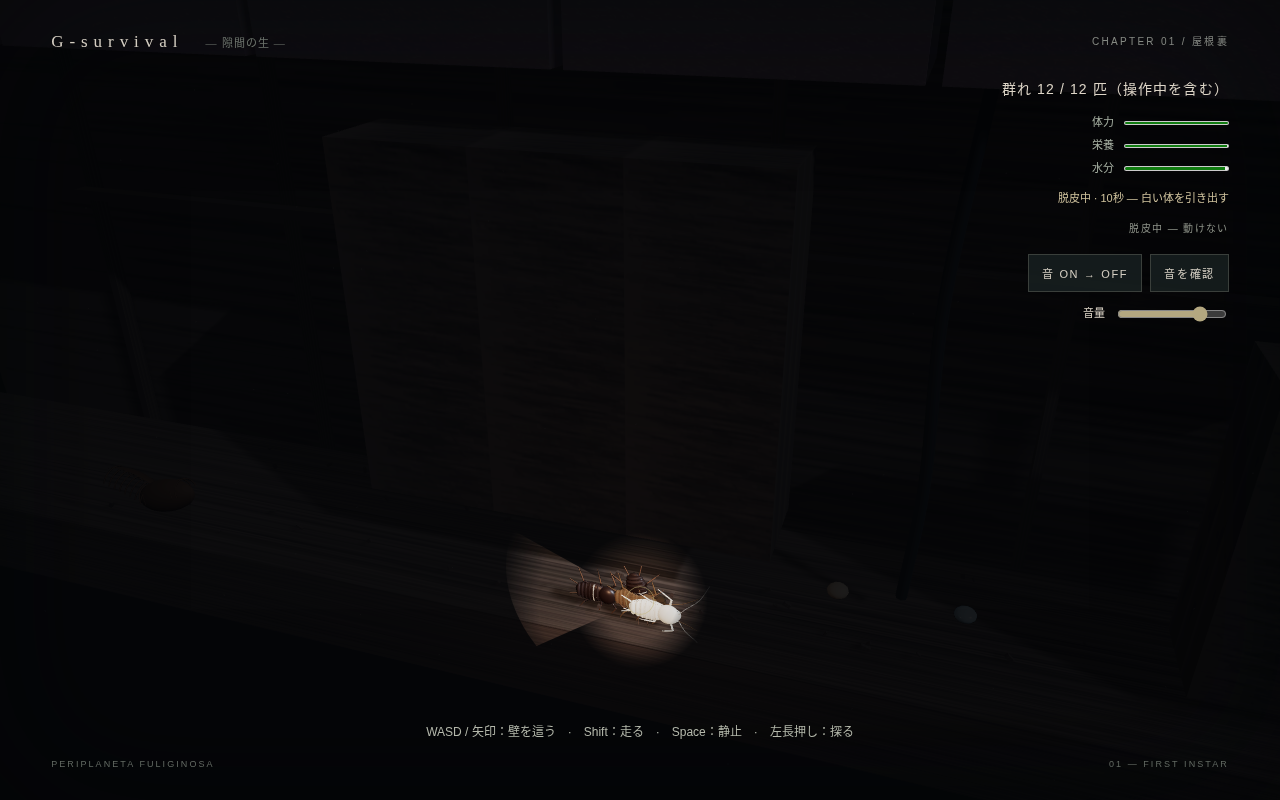
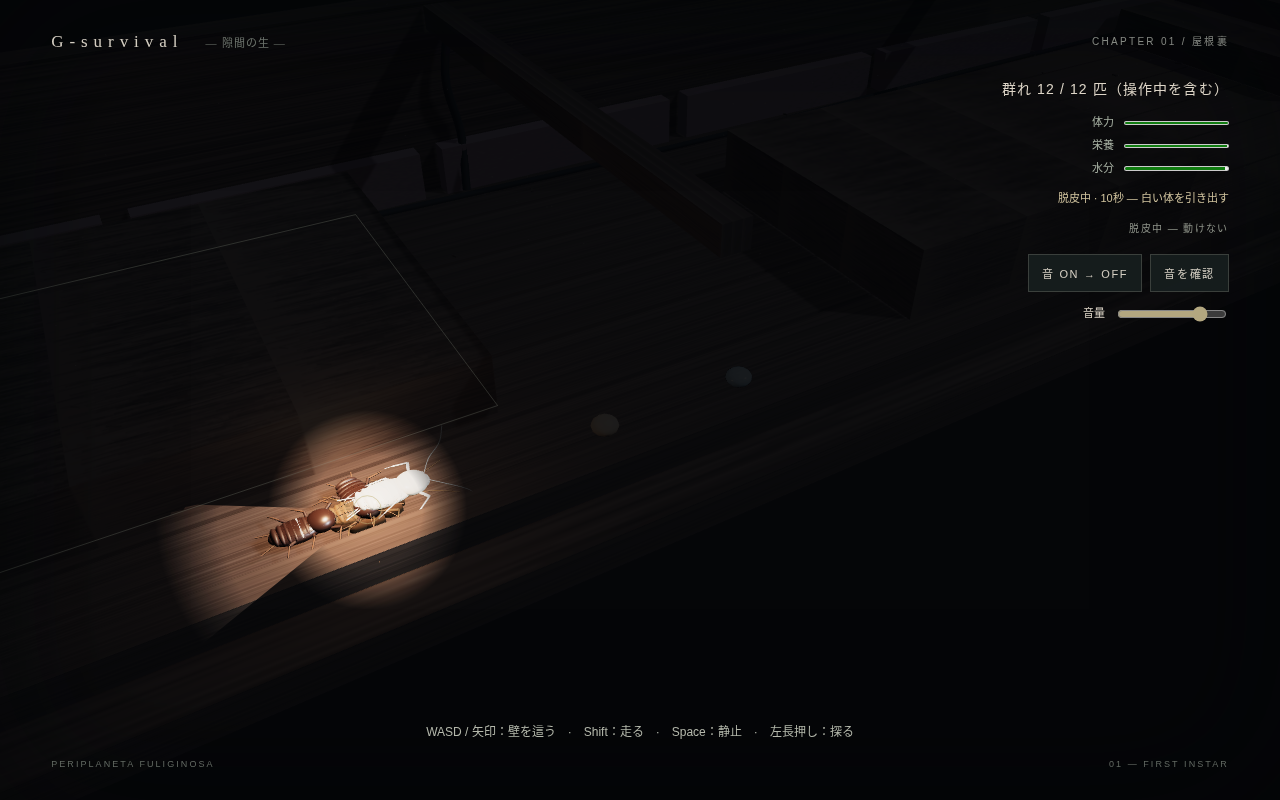
[claude] Rebuild the world on the X-Z floor plane (isometric refactor phase 2)
docs/isometric-refactor-brief.md のフェーズ2。遊技面を「X-Y に建てた壁の断面」から
「X-Z の床面」に組み直した。

- src/space.ts を新設し、sim(x,y) → world(x, 高さ, -y) の対応と、生物を床に
  寝かせる台座 grounded() を集約。
- 屋根裏の床・奥の壁(フェーズ3で登る面)・梁・断熱材・配線を床基準で建て直し、
  OBSTACLES の矩形を footprint として立体の塊にした。
- 生物は台座で包んだだけなので src/animals.ts は未編集。
- 暗闇はスクリーン空間のまま、障害物の輪郭を多角形に、危険方向を画面上の方向に。
- カメラは床を見下ろす既定値に入れ直し、進行方向の後ろへ移した。

src/simulation.ts は変更なし。playthrough.mjs が変更前と同一の
218.1秒 / state=won を出すことで難易度の不変を確認した。

Changed region(s): [[0.125, 0.5, 0.375, 0.7812], [0.4062, 0.6875, 0.5625, 0.8438]]

diff --git a/src/main.ts b/src/main.ts
@@ -5,6 +5,7 @@ import { AudioEngine } from './audio';
 import './style.css';
 import { MoltVisual } from './molt';
 import { createAnimal, animateAnimal } from './animals';
+import { PLANE_H, toWorld, place, grounded } from './space';
 
 const app = document.querySelector<HTMLDivElement>('#app')!;
 app.innerHTML = `<canvas id="world"></canvas><canvas id="veil"></canvas><div class="vignette"></div><header><span class="mark">G-survival <small>— 隙間の生 —</small></span><span class="chapter">CHAPTER 01 / 屋根裏</span></header><div id="entry"><div class="eyebrow">A LIFE BENEATH OUR FEET</div><h1>G-survival</h1><h2>— 隙間の生 —</h2><p class="story">あなたは、孵化したばかりのクロゴキブリの幼虫。<br>まだ飛べない。闇の中を、触角と気流を頼りに生きる。</p><p class="goal"><b>第1章：最初の脱皮</b><br>餌と水を探し、安全な隙間へ。<br>満たされた体で Space を3秒押し、20秒間の脱皮を生き延びる。<br>死ねば、どこかで生きている仲間へ。群れの命も、残りわずか。</p><button id="begin">卵から孵る <span>↗</span></button><small>音のある環境で体験してください</small></div><div id="ending" hidden><div class="eyebrow">CHAPTER 01</div><h2></h2><p></p><button id="again">もう一度、孵る ↗</button></div><aside id="hud"><div id="population" aria-live="polite"></div><div id="survival"><label>体力 <meter id="health" min="0" max="1"></meter></label><label>栄養 <meter id="hunger" min="0" max="1"></meter></label><label>水分 <meter id="water" min="0" max="1"></meter></label></div><div id="objective"></div><div id="molt-req"></div><div class="sound-controls"><button id="sound">音を有効にする</button><button id="test-sound">音を確認</button></div><label class="volume">音量 <input id="volume" aria-label="音量" type="range" min="0" max="1" step="0.05" value="0.8"></label><div id="sound-status" role="status"></div></aside><div id="controls">WASD / 矢印：壁を這う　·　Shift：走る　·　Space：静止　·　左長押し：探る</div><div id="warning" role="status"></div><footer><span>PERIPLANETA FULIGINOSA</span><span>01 — FIRST INSTAR</span></footer>`;
@@ -14,14 +15,15 @@ renderer.toneMapping=THREE.ACESFilmicToneMapping; renderer.toneMappingExposure=1
 const scene=new THREE.Scene(); scene.background=new THREE.Color('#111317'); scene.fog=new THREE.FogExp2('#111317',.018);
 // 斜俯瞰カメラ。docs/isometric-refactor-brief.md フェーズ1(カメラのみ変更)。数値はすべて **AI暫定値** — ガクチョ未指定。`?cam=fov,yaw,pitch,dist` で一時的に上書きして比較できる。
 const camQ=(new URLSearchParams(location.search).get('cam')||'').split(',').map(Number),camN=(i:number,d:number)=>Number.isFinite(camQ[i])&&camQ[i]!==0?camQ[i]:d;
-const CAM_FOV=camN(0,45),CAM_YAW=THREE.MathUtils.degToRad(camN(1,18)),CAM_PITCH=THREE.MathUtils.degToRad(camN(2,26)),CAM_DIST=camN(3,14),CAM_HEIGHT=4.6,CAM_LERP=3,CAM_CATCHUP=9,PLANE_Z=1.4;
+const CAM_FOV=camN(0,45),CAM_YAW=THREE.MathUtils.degToRad(camN(1,30)),CAM_PITCH=THREE.MathUtils.degToRad(camN(2,38)),CAM_DIST=camN(3,12),CAM_HEIGHT=.3,CAM_LEAD=3.5,CAM_LERP=3,CAM_CATCHUP=9;
 const camera=new THREE.PerspectiveCamera(CAM_FOV,innerWidth/innerHeight,.1,200);
-const camTarget=new THREE.Vector3(9,CAM_HEIGHT,PLANE_Z),camOffset=new THREE.Vector3(Math.sin(CAM_YAW)*Math.cos(CAM_PITCH),Math.sin(CAM_PITCH),Math.cos(CAM_YAW)*Math.cos(CAM_PITCH)).multiplyScalar(CAM_DIST);
+// -X 側(進行方向の後ろ)に引く。+X 側に置くと来た道を見ることになる。
+const camTarget=new THREE.Vector3(4,CAM_HEIGHT,-1),camOffset=new THREE.Vector3(-Math.sin(CAM_YAW)*Math.cos(CAM_PITCH),Math.sin(CAM_PITCH),Math.cos(CAM_YAW)*Math.cos(CAM_PITCH)).multiplyScalar(CAM_DIST);
 function placeCamera(){camera.position.copy(camTarget).add(camOffset);camera.lookAt(camTarget);}placeCamera();
-const aimPlane=new THREE.Plane(new THREE.Vector3(0,0,1),-PLANE_Z),aimRay=new THREE.Raycaster(),aimNdc=new THREE.Vector2(),aimHit=new THREE.Vector3();
+const aimPlane=new THREE.Plane(new THREE.Vector3(0,1,0),-PLANE_H),aimRay=new THREE.Raycaster(),aimNdc=new THREE.Vector2(),aimHit=new THREE.Vector3();
 scene.add(new THREE.HemisphereLight('#b1becb','#302322',2.4));
-const moon=new THREE.DirectionalLight('#c0cee0',3);moon.position.set(20,16,10);moon.castShadow=true;moon.shadow.mapSize.set(2048,2048);moon.shadow.camera.left=-60;moon.shadow.camera.right=60;moon.shadow.camera.top=20;moon.shadow.camera.bottom=-20;scene.add(moon);
-const warm=new THREE.PointLight('#cc9c78',20,16);warm.position.set(5,3,5);scene.add(warm);
+const moon=new THREE.DirectionalLight('#c0cee0',3);moon.position.set(14,14,6);moon.castShadow=true;moon.shadow.mapSize.set(2048,2048);moon.shadow.camera.left=-18;moon.shadow.camera.right=18;moon.shadow.camera.top=18;moon.shadow.camera.bottom=-18;moon.shadow.camera.near=.5;moon.shadow.camera.far=48;moon.shadow.bias=-.0012;scene.add(moon,moon.target);
+const warm=new THREE.PointLight('#cc9c78',20,16);warm.position.set(5,1.6,-1);scene.add(warm);
 function texture(kind:'wood'|'pink'){
  const c=document.createElement('canvas');c.width=c.height=256;const ctx=c.getContext('2d')!;ctx.fillStyle=kind==='wood'?'#625044':'#80676d';ctx.fillRect(0,0,256,256);
  let seed=43;const rand=()=>{seed=(seed*1664525+1013904223)>>>0;return seed/4294967296;};
@@ -33,37 +35,53 @@ const wood=new THREE.MeshStandardMaterial({map:woodTex,bumpMap:woodTex,bumpScale
 const pink=new THREE.MeshStandardMaterial({map:pinkTex,bumpMap:pinkTex,bumpScale:.3,roughness:1});
 const wireMat=new THREE.MeshStandardMaterial({color:'#252a29',roughness:.55,metalness:.1});
 function box(x:number,y:number,z:number,w:number,h:number,d:number,material:THREE.Material){const m=new THREE.Mesh(new THREE.BoxGeometry(w,h,d),material);m.position.set(x,y,z);m.receiveShadow=true;m.castShadow=true;scene.add(m);return m;}
-box(50,5.62,-2.6,100,.2,.3,wood);box(50,-.15,0,110,1.5,4,wood);box(50,5,-3.5,110,14,.5,wood);
-for(let i=0;i<23;i++){box(i*5,10,-1,4.8,2,3,pink);box(i*5,4,-3, .18,11,.3,wood);}
-for(const x of [18,42,68,88]){
- box(x+4,5.62,-2.5,8,.2,.3,wood);
- const curve=new THREE.CatmullRomCurve3([new THREE.Vector3(x,1,0),new THREE.Vector3(x+.1,3,0),new THREE.Vector3(x,6,0),new THREE.Vector3(x+.2,9,0)]);
- scene.add(new THREE.Mesh(new THREE.TubeGeometry(curve,28,.095,7,false),wireMat));
+// 屋根裏の床。遊技域は simulation.ts の clamp で sim y 1..8、sim x 0..100。手前/奥に少し余白を取る。
+const FLOOR_NEAR=.5,FLOOR_FAR=8.5,WALL_H=3.2;                 // WALL_H = 奥の壁。フェーズ3で登る面。AI暫定値
+box(50,-.42,-(FLOOR_NEAR+FLOOR_FAR)/2,114,.5,FLOOR_FAR-FLOOR_NEAR+2,wood);   // 根太の下地(板の隙間を塞ぐ)
+for(let i=0;i<6;i++)box(50,-.09,-(FLOOR_NEAR+(i+.5)*(FLOOR_FAR-FLOOR_NEAR)/6),114,.2,(FLOOR_FAR-FLOOR_NEAR)/6-.05,wood); // 床板
+box(50,.11,-(FLOOR_NEAR-.2),114,.42,.4,wood);                 // 手前の根太。俯瞰を塞がないよう低く留める
+box(50,WALL_H/2,-(FLOOR_FAR+.3),114,WALL_H,.6,wood);          // 奥の壁
+box(-1.3,WALL_H/2,-(FLOOR_NEAR+FLOOR_FAR)/2,.6,WALL_H,FLOOR_FAR-FLOOR_NEAR+1.4,wood);  // 通路の両端
+box(101.3,WALL_H/2,-(FLOOR_NEAR+FLOOR_FAR)/2,.6,WALL_H,FLOOR_FAR-FLOOR_NEAR+1.4,wood);
+for(let i=0;i<23;i++){
+ box(i*5,.42,-(FLOOR_FAR-.05),4.6,.85,.55,pink);              // 断熱材。奥の壁の足元に詰める
 }
-const solids=OBSTACLES.map(o=>box(o.x+o.w/2,o.y+o.h/2,.3,o.w,o.h,1.6,o.h>2?wood:pink));
+// 梁。頭上を渡して床に影の縞を落とす。間隔を詰めると画面が横棒で埋まるので疎に置く。
+for(let i=0;i<9;i++)box(i*12+6,2.95,-(FLOOR_NEAR+FLOOR_FAR)/2,.38,.38,FLOOR_FAR-FLOOR_NEAR+1.2,wood);
+{const run=new THREE.CatmullRomCurve3(Array.from({length:14},(_,i)=>toWorld(i*7.85-.5,FLOOR_FAR-.55+Math.sin(i*1.7)*.2,.09)));
+ scene.add(new THREE.Mesh(new THREE.TubeGeometry(run,140,.055,6,false),wireMat));}
+for(const x of [18,42,68,88]){                                // 配線が奥の壁を登る
+ const curve=new THREE.CatmullRomCurve3([toWorld(x,FLOOR_FAR-.5,.09),toWorld(x+.12,FLOOR_FAR-.2,1),toWorld(x-.06,FLOOR_FAR-.28,2),toWorld(x+.16,FLOOR_FAR-.15,3)]);
+ scene.add(new THREE.Mesh(new THREE.TubeGeometry(curve,24,.075,6,false),wireMat));
+}
+// OBSTACLES は sim の X-Y 矩形 = 床の footprint。高さを与えて「またげない塊」として立てる。
+// 高さは AI暫定値。高くするとプレイヤーが隠れるため 1.3 以下に留めている。
+const OBST_H=[.9,1.15,.75,1.3,1,.85,1.2];
+const solids=OBSTACLES.map((o,i)=>box(o.x+o.w/2,OBST_H[i%OBST_H.length]/2,-(o.y+o.h/2),o.w,OBST_H[i%OBST_H.length],o.h,wood)); // 材質は従来どおり木材(旧 `o.h>2?wood:pink` は現行 OBSTACLES では常に wood だった)
 const eggMaterial=new THREE.MeshStandardMaterial({color:'#65432b',roughness:.68});
-function eggHalf(side:number){const g=new THREE.Group();const m=new THREE.Mesh(new THREE.SphereGeometry(1,24,16,side<0?Math.PI:0,Math.PI),eggMaterial);m.scale.set(.68,.33,.3);g.add(m);for(let j=0;j<9;j++){const seam=new THREE.Mesh(new THREE.TorusGeometry(.25,.013,5,12,Math.PI),eggMaterial);seam.position.x=-.48+j*.12;seam.rotation.y=Math.PI/2;g.add(seam);}g.position.set(4,1,1.1);scene.add(g);return g;}
+function eggHalf(side:number){const g=new THREE.Group();const m=new THREE.Mesh(new THREE.SphereGeometry(1,24,16,side<0?Math.PI:0,Math.PI),eggMaterial);m.scale.set(.68,.33,.3);g.add(m);for(let j=0;j<9;j++){const seam=new THREE.Mesh(new THREE.TorusGeometry(.25,.013,5,12,Math.PI),eggMaterial);seam.position.x=-.48+j*.12;seam.rotation.y=Math.PI/2;g.add(seam);}g.position.set(4,.22,-1);scene.add(g);return g;}
 const eggLeft=eggHalf(-1),eggRight=eggHalf(1);
 let seed=37;function rand(){seed=(seed*1664525+1013904223)>>>0;return seed/4294967296;}
-for(let i=0;i<190;i++){const x=rand()*102,y=.63+rand()*.14;const m=box(x,y,rand()*3-1.5,.02+rand()*.15,.02+rand()*.06,.05,wood);m.rotation.z=rand()*3;}
-const dustPositions=new Float32Array(450*3);for(let i=0;i<450;i++){dustPositions[i*3]=rand()*110;dustPositions[i*3+1]=rand()*12;dustPositions[i*3+2]=rand()*6;}
+for(let i=0;i<190;i++){const m=box(rand()*102,.02,-(FLOOR_NEAR+rand()*(FLOOR_FAR-FLOOR_NEAR)),.02+rand()*.15,.035,.02+rand()*.06,wood);m.rotation.y=rand()*3;}
+const dustPositions=new Float32Array(450*3);for(let i=0;i<450;i++){dustPositions[i*3]=rand()*108-3;dustPositions[i*3+1]=rand()*3.4;dustPositions[i*3+2]=-rand()*9.5;}
 const dustGeometry=new THREE.BufferGeometry();dustGeometry.setAttribute('position',new THREE.BufferAttribute(dustPositions,3));scene.add(new THREE.Points(dustGeometry,new THREE.PointsMaterial({color:'#c8b7ab',size:.024,transparent:true,opacity:.3})));
 // Merge only immutable scenery. Moving obstacles and creatures keep their own transforms.
 for(const material of [wood,pink,wireMat]){const meshes=scene.children.filter((o):o is THREE.Mesh=>o instanceof THREE.Mesh&&o.material===material&&!solids.includes(o));if(meshes.length<2)continue;const geometries=meshes.map(m=>{m.updateMatrix();return m.geometry.clone().applyMatrix4(m.matrix);});const geometry=mergeGeometries(geometries);if(geometry){const merged=new THREE.Mesh(geometry,material);merged.castShadow=true;merged.receiveShadow=true;scene.add(merged);meshes.forEach(m=>{scene.remove(m);m.geometry.dispose();});}geometries.forEach(g=>g.dispose());}
 let game=new Game();const audio=new AudioEngine();let started=false;let ended=false;let hatchTime=0;let hatchStarted=0;
-const hero=createAnimal('roach',.75);const kin=Array.from({length:game.siblings.length},()=>createAnimal('roach',.75));const predators=Array.from({length:2},()=>createAnimal('spider',2.3));const ants=Array.from({length:game.ants.length},()=>createAnimal('ant',.48));scene.add(hero,...kin,...predators,...ants);
-const moltVisual=new MoltVisual(scene,hero);
+const hero=createAnimal('roach',.75);const kin=Array.from({length:game.siblings.length},()=>createAnimal('roach',.75));const predators=Array.from({length:2},()=>createAnimal('spider',2.3));const ants=Array.from({length:game.ants.length},()=>createAnimal('ant',.48));
+const heroPin=grounded(hero),kinPins=kin.map(grounded),predatorPins=predators.map(grounded),antPins=ants.map(grounded);scene.add(heroPin,...kinPins,...predatorPins,...antPins);
+const moltVisual=new MoltVisual(scene,heroPin,hero);
 const foodMat=new THREE.MeshStandardMaterial({color:'#d0a57c',roughness:.75});const waterMat=new THREE.MeshPhysicalMaterial({color:'#a9ced8',roughness:.08,metalness:.1,transparent:true,opacity:.85,clearcoat:1});
 const pickups:THREE.Mesh[]=[];
-function rebuildPickups(){pickups.forEach(m=>{scene.remove(m);m.geometry.dispose();});pickups.length=0;game.resources.forEach(r=>{const m=new THREE.Mesh(new THREE.SphereGeometry(.18,12,8),r.type==='water'?waterMat:foodMat);m.position.set(r.x,r.y,.15);m.scale.y=.65;scene.add(m);pickups.push(m);});}
+function rebuildPickups(){pickups.forEach(m=>{scene.remove(m);m.geometry.dispose();});pickups.length=0;game.resources.forEach(r=>{const m=new THREE.Mesh(new THREE.SphereGeometry(.18,12,8),r.type==='water'?waterMat:foodMat);place(m,r.x,r.y,.1);m.scale.y=.65;scene.add(m);pickups.push(m);});}
 rebuildPickups();
-const checkpointModels=game.checkpoints.map((c,i)=>{const g=new THREE.Group();const mat=new THREE.MeshStandardMaterial({color:'#47321d',roughness:1});for(let j=0;j<9;j++){const m=new THREE.Mesh(new THREE.SphereGeometry(.09,7,5),mat);m.scale.set(1.5,.7,1);m.position.set(Math.cos(j*2.4)*.3,Math.sin(j*2.4)*.16,0);g.add(m);}g.position.set(c.x,c.y,1.35);scene.add(g);return g;});
+const checkpointModels=game.checkpoints.map((c,i)=>{const g=new THREE.Group();const mat=new THREE.MeshStandardMaterial({color:'#47321d',roughness:1});for(let j=0;j<9;j++){const m=new THREE.Mesh(new THREE.SphereGeometry(.09,7,5),mat);m.scale.set(1.5,.7,1);m.position.set(Math.cos(j*2.4)*.3,Math.sin(j*2.4)*.16,0);g.add(m);}g.rotation.x=-Math.PI/2;place(g,c.x,c.y,.05);scene.add(g);return g;});
 const crumbs=ants.map(()=>{const m=new THREE.Mesh(new THREE.SphereGeometry(.05,5,4),foodMat);scene.add(m);return m;});const veil=document.querySelector<HTMLCanvasElement>('#veil')!,ctx=veil.getContext('2d')!;
 const keys=new Set<string>();let mouse={x:innerWidth*.65,y:innerHeight*.5},probe=false;
 addEventListener('keydown',e=>{if(['Space','KeyW','KeyA','KeyS','KeyD','ArrowUp','ArrowDown','ArrowLeft','ArrowRight','ShiftLeft','ShiftRight'].includes(e.code))e.preventDefault();keys.add(e.code);});addEventListener('keyup',e=>keys.delete(e.code));
 addEventListener('blur',()=>{keys.clear();probe=false;});addEventListener('pointermove',e=>{mouse={x:e.clientX,y:e.clientY};});addEventListener('pointerdown',e=>{if(e.button===0&&!(e.target as HTMLElement).closest('button,input'))probe=true;});addEventListener('pointerup',()=>probe=false);
 function resize(){renderer.setSize(innerWidth,innerHeight);veil.width=innerWidth;veil.height=innerHeight;camera.aspect=innerWidth/innerHeight;camera.updateProjectionMatrix();}addEventListener('resize',resize);resize();
-function project(x:number,y:number){const v=new THREE.Vector3(x,y,PLANE_Z).project(camera);return{x:(v.x*.5+.5)*innerWidth,y:(-.5*v.y+.5)*innerHeight};}
+function project(x:number,y:number){const v=toWorld(x,y).project(camera);return{x:(v.x*.5+.5)*innerWidth,y:(-.5*v.y+.5)*innerHeight};}
 let aim={x:5,y:1};const remembered=new Set<number>();
 function reach(x:number,y:number,dx:number,dy:number,max:number){for(let t=.12;t<max;t+=.12){const px=x+dx*t,py=y+dy*t;if(OBSTACLES.some(o=>px>o.x&&px<o.x+o.w&&py>o.y&&py<o.y+o.h))return t;}return max;}
 function sense(){return .4+.6*Math.min(game.hunger,game.water);}
@@ -76,9 +94,9 @@ function darkness(){
  ctx.globalCompositeOperation='destination-out';const near=ctx.createRadialGradient(p.x,p.y,0,p.x,p.y,radius);near.addColorStop(0,'rgba(0,0,0,1)');near.addColorStop(.55,`rgba(0,0,0,${NEAR_MID})`);near.addColorStop(1,'transparent');ctx.fillStyle=near;ctx.fillRect(p.x-radius,p.y-radius,2*radius,2*radius);
  const angle=Math.atan2(aim.y-game.player.y,aim.x-game.player.x),range=(probe?4:2.4)*sense(),spread=probe?.87:.52;
  const g=ctx.createRadialGradient(p.x,p.y,0,p.x,p.y,range*scale);g.addColorStop(0,`rgba(0,0,0,${FAN_CORE})`);g.addColorStop(.7,`rgba(0,0,0,${FAN_MID})`);g.addColorStop(1,'transparent');ctx.fillStyle=g;ctx.beginPath();ctx.moveTo(p.x,p.y);for(let i=0;i<=50;i++){const a=angle-spread+spread*2*i/50;const r=reach(game.player.x,game.player.y,Math.cos(a),Math.sin(a),range);const q=project(game.player.x+Math.cos(a)*r,game.player.y+Math.sin(a)*r);ctx.lineTo(q.x,q.y);}ctx.closePath();ctx.fill();ctx.globalCompositeOperation='source-over';
- OBSTACLES.forEach((o,i)=>{if([[o.x-.1,o.y],[o.x+o.w+.1,o.y],[o.x,o.y+o.h+.1],[o.x+o.w/2,o.y-.1]].some(([x,y])=>visible(x,y)))remembered.add(i);if(remembered.has(i)){const a=project(o.x,o.y+o.h),b=project(o.x+o.w,o.y);ctx.strokeStyle='rgba(157,164,149,.23)';ctx.lineWidth=1;ctx.strokeRect(a.x,a.y,b.x-a.x,b.y-a.y);}});
+ OBSTACLES.forEach((o,i)=>{if([[o.x-.1,o.y],[o.x+o.w+.1,o.y],[o.x,o.y+o.h+.1],[o.x+o.w/2,o.y-.1]].some(([x,y])=>visible(x,y)))remembered.add(i);if(remembered.has(i)){const q=[[o.x,o.y],[o.x+o.w,o.y],[o.x+o.w,o.y+o.h],[o.x,o.y+o.h]].map(([x,y])=>project(x,y));ctx.strokeStyle='rgba(157,164,149,.23)';ctx.lineWidth=1;ctx.beginPath();ctx.moveTo(q[0].x,q[0].y);for(let k=1;k<4;k++)ctx.lineTo(q[k].x,q[k].y);ctx.closePath();ctx.stroke();}});
  checkpointModels.forEach((m,i)=>{const c=game.checkpoints[i];if(visible(c.x,c.y)){const q=project(c.x,c.y);ctx.strokeStyle='rgba(195,181,123,.5)';ctx.beginPath();ctx.arc(q.x,q.y,14,0,Math.PI*2);ctx.stroke();}});
- const d=game.danger.strength;if(d>0){const dx=game.danger.x-game.player.x,dy=game.danger.y-game.player.y;const a=Math.atan2(-dy,dx);const k=Math.min(innerWidth/2/Math.max(.01,Math.abs(Math.cos(a))),innerHeight/2/Math.max(.01,Math.abs(Math.sin(a))));const x=innerWidth/2+Math.cos(a)*k,y=innerHeight/2+Math.sin(a)*k;const glow=ctx.createRadialGradient(x,y,0,x,y,170);glow.addColorStop(0,`rgba(184,201,209,${Math.min(.6,d*.6)})`);glow.addColorStop(1,'transparent');ctx.fillStyle=glow;ctx.fillRect(0,0,innerWidth,innerHeight);}
+ const d=game.danger.strength;if(d>0){const t=project(game.danger.x,game.danger.y);const a=Math.atan2(t.y-p.y,t.x-p.x);const k=Math.min(innerWidth/2/Math.max(.01,Math.abs(Math.cos(a))),innerHeight/2/Math.max(.01,Math.abs(Math.sin(a))));const x=innerWidth/2+Math.cos(a)*k,y=innerHeight/2+Math.sin(a)*k;const glow=ctx.createRadialGradient(x,y,0,x,y,170);glow.addColorStop(0,`rgba(184,201,209,${Math.min(.6,d*.6)})`);glow.addColorStop(1,'transparent');ctx.fillStyle=glow;ctx.fillRect(0,0,innerWidth,innerHeight);}
  if(game.humanEvent>0){const humanGlow=ctx.createLinearGradient(0,0,0,innerHeight*.4);humanGlow.addColorStop(0,`rgba(207,215,218,${Math.min(.7,game.humanEvent*.6)})`);humanGlow.addColorStop(1,'transparent');ctx.fillStyle=humanGlow;ctx.fillRect(0,0,innerWidth,innerHeight*.4);}
  if(game.antAttack>0){ctx.strokeStyle=`rgba(187,91,63,${.2+game.antAttack/5})`;ctx.lineWidth=8;ctx.strokeRect(4,4,innerWidth-8,innerHeight-8);}
 }document.querySelector('#begin')!.addEventListener('click',()=>{started=true;hatchTime=0;hatchStarted=performance.now();document.querySelector('#entry')!.classList.add('gone');void audio.start();probe=false;});
@@ -93,12 +111,12 @@ const moltReq=document.querySelector<HTMLElement>('#molt-req')!;let lastReqHtml=
 const MOLT_NEED=.85; // simulation.ts の moltReady と同じしきい値
 const marks=(v:number)=>{const f=Math.floor(Math.min(1,v/MOLT_NEED)*5);return '●'.repeat(f)+'○'.repeat(5-f);};
 let previous=performance.now(),accumulator=0;function frame(now:number){requestAnimationFrame(frame);const dt=Math.min((now-previous)/1000,.25);previous=now;
- const p=game.player;camTarget.x+=((started?p.x:4)-camTarget.x)*Math.min(1,dt*CAM_LERP);camTarget.y=CAM_HEIGHT+Math.sin(now*.055)*game.humanEvent*.08;placeCamera();camera.updateMatrixWorld();
- aimNdc.set(mouse.x/innerWidth*2-1,1-mouse.y/innerHeight*2);aimRay.setFromCamera(aimNdc,camera);if(aimRay.ray.intersectPlane(aimPlane,aimHit))aim={x:aimHit.x,y:aimHit.y};
+ const p=game.player;const damp=Math.min(1,dt*CAM_LERP);camTarget.x+=((started?p.x+CAM_LEAD:4)-camTarget.x)*damp;camTarget.z+=(-(started?p.y:1)-camTarget.z)*damp;camTarget.y=CAM_HEIGHT+Math.sin(now*.055)*game.humanEvent*.08;placeCamera();camera.updateMatrixWorld();
+ aimNdc.set(mouse.x/innerWidth*2-1,1-mouse.y/innerHeight*2);aimRay.setFromCamera(aimNdc,camera);if(aimRay.ray.intersectPlane(aimPlane,aimHit))aim={x:aimHit.x,y:-aimHit.z};
  const input={x:Number(keys.has('KeyD')||keys.has('ArrowRight'))-Number(keys.has('KeyA')||keys.has('ArrowLeft')),y:Number(keys.has('KeyW')||keys.has('ArrowUp'))-Number(keys.has('KeyS')||keys.has('ArrowDown')),sprint:keys.has('ShiftLeft')||keys.has('ShiftRight'),freeze:keys.has('Space'),probe,aimX:aim.x,aimY:aim.y};
  if(started&&!ended&&hatchTime>=4&&Math.abs(camTarget.x-p.x)<CAM_CATCHUP){accumulator+=dt;while(accumulator>=1/60){game.update(1/60,input);accumulator-=1/60;}}
  const travel=Math.hypot(p.x-lastX,p.y-lastY);if(travel>.001)bodyHeading=Math.atan2(p.y-lastY,p.x-lastX);lastX=p.x;lastY=p.y;
- const oldHatch=hatchTime;if(started)hatchTime=Math.min(4,(now-hatchStarted)/1000);if(oldHatch<4&&hatchTime>=4){game.siblings.forEach((s,i)=>{s.x=4+Math.cos(i*2.4)*2.4;s.y=1+Math.abs(Math.sin(i*2.4))*2;});}eggLeft.position.x=4-Math.min(1,hatchTime/3)*.4;eggRight.position.x=4+Math.min(1,hatchTime/3)*.4;eggLeft.rotation.z=-hatchTime*.08;eggRight.rotation.z=hatchTime*.08;hero.visible=started;hero.position.set(p.x,p.y,1.4);animateAnimal(hero,now/1000,travel/Math.max(dt,.001),bodyHeading,game.moltProgress);
+ const oldHatch=hatchTime;if(started)hatchTime=Math.min(4,(now-hatchStarted)/1000);if(oldHatch<4&&hatchTime>=4){game.siblings.forEach((s,i)=>{s.x=4+Math.cos(i*2.4)*2.4;s.y=1+Math.abs(Math.sin(i*2.4))*2;});}eggLeft.position.x=4-Math.min(1,hatchTime/3)*.4;eggRight.position.x=4+Math.min(1,hatchTime/3)*.4;eggLeft.rotation.y=-hatchTime*.08;eggRight.rotation.y=hatchTime*.08;heroPin.visible=started;place(heroPin,p.x,p.y);animateAnimal(hero,now/1000,travel/Math.max(dt,.001),bodyHeading,game.moltProgress);
  moltVisual.update(game.moltProgress,game.moltReady,game.molting||game.state==='won',p.x,p.y,bodyHeading,now/1000);
  if(!game.molting){const look=Math.atan2(aim.y-p.y,aim.x-p.x)-bodyHeading;(hero.userData.feelers as THREE.Group[]).forEach((f,i)=>f.rotation.z=THREE.MathUtils.clamp(Math.atan2(Math.sin(look),Math.cos(look)),-1.2,1.2)+Math.sin(now*.003+i)*.06);}
  population.textContent=`群れ ${game.siblings.filter(s=>s.alive).length+(game.state==='lost'?0:1)} / ${game.siblings.length+1} 匹（操作中を含む）`;
@@ -110,14 +128,15 @@ let previous=performance.now(),accumulator=0;function frame(now:number){requestA
  objective.textContent=game.state==='won'?'第1章 完了 — 最初の脱皮':game.molting?`脱皮中 · ${Math.ceil((1-game.moltProgress)*20)}秒 — ${game.moltProgress<.2?'背中が裂ける':game.moltProgress<.6?'白い体を引き出す':game.moltProgress<.9?'脚と触角を抜く':'新しい体を伸ばす'}`:game.moltReady?'安全な隙間で Space を3秒長押し':`${zone} · 餌と水を探す`;
  const reqHtml=game.state==='won'?'<div class="req-title">脱皮 完了</div>':game.molting?'<div class="req-title">脱皮中 — 動けない</div>':`<div class="req-title">脱皮に必要な蓄え</div><div class="req-row"><span>餌</span><b>${marks(game.hunger)}</b></div><div class="req-row"><span>水</span><b>${marks(game.water)}</b></div><div class="req-hint">${game.moltReady?'準備ができました — 安全な場所で Space を長押し（3秒）':game.hunger>=MOLT_NEED&&game.water>=MOLT_NEED?'体力が足りない — 糞の山で休む':'餌と水を集めて、印を全部埋める'}</div>`;
  if(reqHtml!==lastReqHtml){moltReq.innerHTML=reqHtml;lastReqHtml=reqHtml;}moltReq.classList.toggle('ready',game.moltReady);
- solids.forEach((m,i)=>{m.rotation.z=Math.sin(now*.04+i)*game.humanEvent*.002;});
- kin.forEach((m,i)=>{const s=game.siblings[i];m.visible=!!s&&s.alive&&visible(s.x,s.y);if(s){const kdx=s.x-m.position.x,kdy=s.y-m.position.y;const kh=Math.hypot(kdx,kdy)>.001?Math.atan2(kdy,kdx):m.rotation.z;m.position.set(s.x,s.y,1.35);if(hatchTime<4){m.position.set(4+Math.cos(i*2.4)*hatchTime*.6,1+Math.abs(Math.sin(i*2.4))*hatchTime*.5,1.35);m.visible=started&&hatchTime>i*.18;}animateAnimal(m,now/1000+i*.3,Math.hypot(kdx,kdy)/Math.max(dt,.001),kh);}});
- predators.forEach((m,i)=>{const s=game.spiders[i];m.visible=!!s&&visible(s.x,s.y);if(s){m.position.set(s.x,s.y,1.4);animateAnimal(m,now/1000,s.state==="warning"?0:1,s.angle);m.scale.y=m.userData.baseScale*(s.state==="warning"?.72:1);m.position.z=s.state==="attack"?1.7:1.4;}});
- ants.forEach((m,i)=>{const a=game.ants[i];m.visible=!!a&&visible(a.x,a.y);if(a){m.position.set(a.x,a.y,1.35);animateAnimal(m,now/1000+i,1,a.angle);}});pickups.forEach((m,i)=>m.visible=game.resources[i].amount>0);
-  crumbs.forEach((m,i)=>{const a=game.ants[i];m.visible=!!a&&a.carrying&&a.target===null&&visible(a.x,a.y);if(a)m.position.set(a.x+Math.cos(a.angle)*.13,a.y+Math.sin(a.angle)*.13,1.44);});
+ solids.forEach((m,i)=>{m.rotation.y=Math.sin(now*.04+i)*game.humanEvent*.002;});
+ kinPins.forEach((m,i)=>{const s=game.siblings[i];m.visible=!!s&&s.alive&&visible(s.x,s.y);if(s){const kdx=s.x-m.position.x,kdy=s.y+m.position.z;const kh=Math.hypot(kdx,kdy)>.001?Math.atan2(kdy,kdx):kin[i].rotation.z;place(m,s.x,s.y);if(hatchTime<4){place(m,4+Math.cos(i*2.4)*hatchTime*.6,1+Math.abs(Math.sin(i*2.4))*hatchTime*.5);m.visible=started&&hatchTime>i*.18;}animateAnimal(kin[i],now/1000+i*.3,Math.hypot(kdx,kdy)/Math.max(dt,.001),kh);}});
+ predatorPins.forEach((m,i)=>{const s=game.spiders[i];m.visible=!!s&&visible(s.x,s.y);if(s){animateAnimal(predators[i],now/1000,s.state==="warning"?0:1,s.angle);predators[i].scale.z=predators[i].userData.baseScale*(s.state==="warning"?.72:1);place(m,s.x,s.y,PLANE_H+(s.state==="attack"?.3:0));}});
+ antPins.forEach((m,i)=>{const a=game.ants[i];m.visible=!!a&&visible(a.x,a.y);if(a){place(m,a.x,a.y);animateAnimal(ants[i],now/1000+i,1,a.angle);}});pickups.forEach((m,i)=>m.visible=game.resources[i].amount>0);
+  crumbs.forEach((m,i)=>{const a=game.ants[i];m.visible=!!a&&a.carrying&&a.target===null&&visible(a.x,a.y);if(a)place(m,a.x+Math.cos(a.angle)*.13,a.y+Math.sin(a.angle)*.13,.16);});
  checkpointModels.forEach((m,i)=>{const c=game.checkpoints[i];m.visible=visible(c.x,c.y);});
- const positions=dustGeometry.getAttribute('position') as THREE.BufferAttribute;for(let i=0;i<positions.count;i++){positions.setY(i,(positions.getY(i)-dt*(.015+game.humanEvent*.5)+12)%12);}positions.needsUpdate=true;
- warm.position.x=p.x;warm.position.y=p.y+2;warm.intensity=game.moltProgress>0?32:12;
+ const positions=dustGeometry.getAttribute('position') as THREE.BufferAttribute;for(let i=0;i<positions.count;i++){positions.setY(i,(positions.getY(i)-dt*(.015+game.humanEvent*.5)+3.4)%3.4);}positions.needsUpdate=true;
+ warm.position.set(p.x,1.5,-p.y);warm.intensity=game.moltProgress>0?32:12;
+ moon.position.set(p.x+12,14,6);moon.target.position.set(p.x,0,-4.5);moon.target.updateMatrixWorld();
  audio.update(dt,{speed:started&&!ended?travel/Math.max(dt,.001):0,danger:game.danger.strength,pan:Math.sign(game.danger.x-p.x),molting:game.molting,stamina:game.stamina,human:game.humanEvent,ants:game.antAttack,vertical:(game.danger.y-p.y),loss:lossNotice>2.9});
  renderer.render(scene,camera);darkness();
  if(started&&!ended&&game.state!=='playing'){ended=true;const end=document.querySelector<HTMLElement>('#ending')!;end.hidden=false;end.querySelector('h2')!.textContent=game.state==='won'?'まだ、生きている。':'闇が、静かになった。';end.querySelector('p')!.textContent=game.state==='won'?'はじめての脱皮を終えた。':'Gの群れは、全滅した。';}

diff --git a/src/molt.ts b/src/molt.ts
@@ -1,31 +1,31 @@
 import * as THREE from 'three';
 import { createAnimal } from './animals';
+import { PLANE_H, place, grounded } from './space';
 const smooth=(a:number,b:number,v:number)=>{const t=THREE.MathUtils.clamp((v-a)/(b-a),0,1);return t*t*(3-2*t);};
 export class MoltVisual {
  private active=false;
  private shells:THREE.Group[]=[];
  private current:THREE.Group|null=null;
  private colors=new Map<THREE.MeshStandardMaterial,THREE.Color>();
- constructor(private scene:THREE.Scene,private hero:THREE.Group){
+ constructor(private scene:THREE.Scene,private pin:THREE.Group,private hero:THREE.Group){
   const copies=new Map<THREE.Material,THREE.Material>();
   hero.traverse(o=>{if(o instanceof THREE.Mesh&&!Array.isArray(o.material)){const original=o.material;let copy=copies.get(original);if(!copy){copy=original.clone();copies.set(original,copy!);}o.material=copy!;if(copy instanceof THREE.MeshStandardMaterial)this.colors.set(copy,copy.color.clone());}});
  }
  reset(){this.active=false;for(const shell of this.shells){this.scene.remove(shell);shell.traverse(o=>{if(o instanceof THREE.Mesh&&!Array.isArray(o.material))o.material.dispose();});}this.shells=[];this.current=null;}
  update(progress:number,ready:boolean,molting:boolean,x:number,y:number,heading:number,time:number){
   if(molting&&!this.active){
-   this.current=createAnimal('roach',.75);this.current.position.set(x,y,1.39);this.current.rotation.z=heading;
+   this.current=createAnimal('roach',.75);this.current.rotation.z=heading;const shed=grounded(this.current);place(shed,x,y,PLANE_H-.02);
    this.current.traverse(o=>{if(o instanceof THREE.Mesh&&!Array.isArray(o.material)){const m=o.material.clone() as THREE.MeshStandardMaterial;m.transparent=true;m.opacity=.72;m.color?.set('#805b35');m.emissive?.set('#6d4829');m.emissiveIntensity=.18;m.roughness=.9;o.material=m;}});
-   this.scene.add(this.current);this.shells.push(this.current);
+   this.scene.add(shed);this.shells.push(shed);
   }
   this.active=molting;
   const whiten=molting?smooth(.03,.3,progress)*(1-smooth(.86,1,progress)):0;
   for(const [mat,color] of this.colors){mat.color.copy(color).lerp(new THREE.Color('#fff3dc'),whiten);mat.emissive.set('#d5c8a2');mat.emissiveIntensity=molting?.22*whiten:ready?.1+.08*Math.sin(time*3):0;mat.roughness=molting?.75:.4;}
   if(!molting)return;
   const extract=smooth(.2,.78,progress);
-  this.hero.position.x=x+Math.cos(heading)*extract*.65;
-  this.hero.position.y=y+Math.sin(heading)*extract*.65;
-  this.hero.position.z=1.43+Math.sin(Math.PI*progress)*.09;
-  this.hero.scale.set(.75*(1+.3*extract),.75*(1+.3*extract)*(1-.1*Math.sin(progress*Math.PI)),.75);
+  place(this.pin,x+Math.cos(heading)*extract*.65,y+Math.sin(heading)*extract*.65,PLANE_H+Math.sin(Math.PI*progress)*.09);
+  // モデル局所軸は X=体長 / Y=左右 / Z=背丈。抜け出る間に伸びて、背だけ一度潰れる。
+  this.hero.scale.set(.75*(1+.3*extract),.75*(1+.3*extract),.75*(1-.1*Math.sin(progress*Math.PI)));
   const legs=this.hero.userData.legs as THREE.Group[];
   legs.forEach((leg,i)=>{const release=smooth(.38+i*.035,.7+i*.035,progress);leg.rotation.z=(i%2?1:-1)*(.9*(1-release)+Math.sin(time*4+i)*.06*(1-progress));});
   (this.hero.userData.feelers as THREE.Group[]).forEach((f,i)=>f.rotation.z=(i?1:-1)*.65*(1-smooth(.65,.9,progress)));

diff --git a/src/space.ts b/src/space.ts
@@ -1,0 +1,15 @@
+import * as THREE from 'three';
+// フェーズ2(docs/isometric-refactor-brief.md): 遊技面を「X-Y の壁の断面」→「X-Z の床面」に組み直した。
+// simulation.ts の 2D 座標 {x,y} は、指示書 §1 の言う「接触面上の2Dパラメータ空間」としてそのまま温存する。
+//   sim.x → world.x  通路に沿う方向(0..100)
+//   sim.y → world.z の符号反転(1..8)。奥ほど z が小さい
+//   world.y = 高さ。床の上面が 0
+// simulation.ts 側の変数名は `y` のままにしてある(改名すると全行が差分になり、
+// 難易度確定済みの挙動を壊すリスクが上がるため)。フェーズ3で面ベースに拡張する際に改める。
+export const PLANE_H=.12;                                     // 生物が乗る高さ。暗闇の投影平面もここ
+export const toWorld=(x:number,y:number,h=PLANE_H)=>new THREE.Vector3(x,h,-y);
+export const place=(o:THREE.Object3D,x:number,y:number,h=PLANE_H)=>o.position.set(x,h,-y);
+// createAnimal のモデルは「+X が前方 / +Y が左右 / +Z が背中側」。床に寝かせる台座で包むと、
+// animateAnimal が触る rotation.z(進行方向)がそのまま world Y 軸まわりの回頭になる。
+// → animals.ts を編集せずに済む。指示書の Quaternion 版に差し替わってもこの台座は残せる。
+export function grounded(g:THREE.Group){const w=new THREE.Group();w.rotation.x=-Math.PI/2;w.add(g);w.userData.inner=g;return w;}
